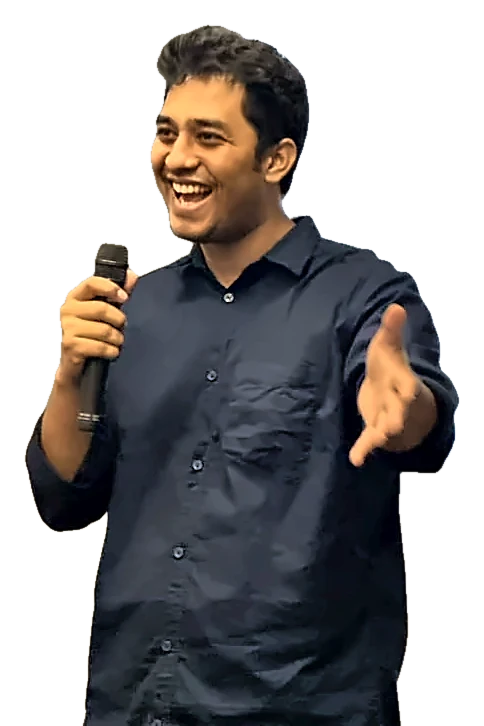
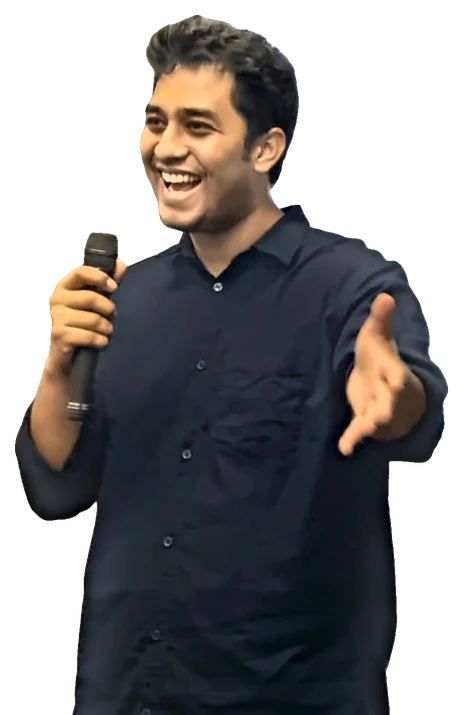
Retouched photo, orbiting blobs, responsive fixes, socials, new email
- Photo: LapSRN 2x upscale, face relight (shadow lift, soft key light,
  cast correction), shirt wrinkle smoothing that keeps buttons and
  seams, detail-aware sharpening, re-matted at 2x
- Hero: morphing gradient blob with a soft secondary glow and two
  orbiting blob-shaped rings that pass behind the head and in front of
  the body; pointer depth now uses `translate` so it composes with the
  entrance animations
- Responsive: short name and tighter header under 420px, full nav only
  above 1000px, 44px footer tap targets; audited 320-1920px with no
  overflow or clipping
- Contact email is now shahriar@sarc.edu.bd; LinkedIn, Facebook,
  Instagram, X and Kaggle icons in the contact band and footer
- Expected graduation 2029

Claude-Session: https://claude.ai/code/session_01PLjxs9tdQ5vjxFupRfSiNv

Changed region(s): [[0.0302, 0.0, 0.9676, 1.0], [0.6652, 0.9538, 0.6955, 0.9846], [0.2419, 0.9846, 0.2721, 1.0]]

diff --git a/index.html b/index.html
@@ -15,6 +15,8 @@
 <link rel="canonical" href="https://msaevan.com/">
 <link rel="me" href="https://www.linkedin.com/in/msaevan101">
 <link rel="me" href="https://x.com/msaevan101">
+<link rel="me" href="https://www.facebook.com/shahriarazadevan">
+<link rel="me" href="https://www.instagram.com/msaevan101">
 <link rel="icon" href="favicon.svg" type="image/svg+xml">
 <link rel="apple-touch-icon" href="apple-touch-icon.png">
 <link rel="preload" href="fonts/google-sans-flex.woff2" as="font" type="font/woff2" crossorigin>
@@ -36,14 +38,14 @@
 <script type="application/ld+json">
 {"@context":"https://schema.org","@graph":[
 {"@type":"ProfilePage","@id":"https://msaevan.com/#page","url":"https://msaevan.com/","name":"Shahriar Azad Evan – Community & Program Manager","inLanguage":"en","dateModified":"2026-11-12","mainEntity":{"@id":"https://msaevan.com/#person"}},
-{"@type":"Person","@id":"https://msaevan.com/#person","name":"Shahriar Azad Evan","alternateName":["Md Shahriar Azad Evan","MSA Evan"],"url":"https://msaevan.com/","image":["https://msaevan.com/portrait.jpg","https://msaevan.com/speaker@2x.webp"],"email":"mailto:shahriarazadevan@gmail.com","jobTitle":"Community & Program Manager","description":"Community and program manager in Dhaka, Bangladesh. Organizer of Machine Learning Bangladesh and founder of Cedar Initiative.","address":{"@type":"PostalAddress","addressLocality":"Dhaka","addressCountry":"BD"},
+{"@type":"Person","@id":"https://msaevan.com/#person","name":"Shahriar Azad Evan","alternateName":["Md Shahriar Azad Evan","MSA Evan"],"url":"https://msaevan.com/","image":["https://msaevan.com/portrait.jpg","https://msaevan.com/speaker@2x.webp"],"email":"mailto:shahriar@sarc.edu.bd","jobTitle":"Community & Program Manager","description":"Community and program manager in Dhaka, Bangladesh. Organizer of Machine Learning Bangladesh and founder of Cedar Initiative.","address":{"@type":"PostalAddress","addressLocality":"Dhaka","addressCountry":"BD"},
 "affiliation":[{"@type":"Organization","name":"Machine Learning Bangladesh","url":"https://mlbangladesh.org/"},{"@type":"Organization","name":"Cedar Initiative","url":"https://cedar-initiative.org/"},{"@type":"Organization","name":"CMX"}],
 "memberOf":{"@type":"Organization","name":"Google AI Community Network"},
 "alumniOf":[{"@type":"CollegeOrUniversity","name":"Kirkwood Community College"},{"@type":"CollegeOrUniversity","name":"United International University"}],
 "award":["U.S. Department of State Community College Initiative Scholar (2024–25)","Platinum Award, Kirkwood Community College Eagle Leadership Program (2025)","3rd Place, CICA AI Art Competition (2025)","Dean's List, Kirkwood Community College (2025)","Community Champion, Google Crowdsource (2021)"],
 "knowsAbout":["Community management","Program management","Event management","Hackathons","Kaggle competitions","Developer relations","Partnerships and sponsorships"],
 "knowsLanguage":["Bengali","English","Hindi"],
-"sameAs":["https://www.linkedin.com/in/msaevan101","https://x.com/msaevan101","https://www.kaggle.com/msaevan","https://www.facebook.com/shahriarazadevan"],
+"sameAs":["https://www.linkedin.com/in/msaevan101","https://www.facebook.com/shahriarazadevan","https://www.instagram.com/msaevan101","https://x.com/msaevan101","https://www.kaggle.com/msaevan"],
 "subjectOf":[{"@type":"NewsArticle","url":"https://www.dhakatribune.com/bangladesh/foreign-affairs/422008/a-new-chapter-in-bangladesh%E2%80%93russia-digital"},{"@type":"WebPage","url":"https://mlbangladesh.org/team"},{"@type":"NewsArticle","url":"https://www.tbsnews.net/bangladesh/bangladeshi-youth-wins-top-spot-cica-artificial-intelligence-art-competition-1284891"}]}
 ]}
 </script>
@@ -101,16 +103,21 @@ img{display:block;max-width:100%}
 .iconbtn .sun{display:none}
 [aria-pressed="true"] .sun{display:block}[aria-pressed="true"] .moon{display:none}
 .menu{display:none}
+.gn .name .short{display:none}
+.gn .name{min-width:0}
+@media (max-width:420px){.gn .wide{gap:10px}.gn .name .full{display:none}.gn .name .short{display:inline}.tools{gap:2px}.pill{padding:0 14px}}
+@media (max-width:900px){footer nav{gap:0 4px;margin-left:-10px}footer nav a{display:inline-flex;align-items:center;justify-content:center;min-height:44px;min-width:44px;padding:0 10px}}
+@media (max-width:760px){footer .wide{flex-direction:column}}
 .pill{display:inline-flex;align-items:center;height:40px;padding:0 18px;border-radius:999px;background:var(--btn);color:var(--btn-ink);font-size:14px;font-weight:500;white-space:nowrap}
 .pill:hover{text-decoration:none;filter:brightness(1.06)}
-@media (max-width:880px){
+@media (max-width:1000px){
   .gn nav{display:none}.tools{margin-left:auto}.js .menu{display:grid}
   .gn.open nav{display:flex;position:absolute;top:60px;left:0;right:0;flex-direction:column;gap:0;margin:0;padding:6px var(--gut) 14px;background:var(--bg);border-bottom:1px solid var(--line)}
   .gn.open nav a{font-size:17px;line-height:44px;padding:0 4px;color:var(--ink)}
 }
 
 /* Buttons */
-.btn{transition:transform .25s cubic-bezier(.2,.7,.2,1),background .2s,filter .2s,box-shadow .2s;display:inline-flex;align-items:center;justify-content:center;gap:8px;min-height:48px;padding:0 24px;border-radius:999px;font-size:16px;font-weight:500;white-space:nowrap;transition:background .2s,filter .2s,box-shadow .2s}
+.btn{transition:transform .25s cubic-bezier(.2,.7,.2,1),background .2s,filter .2s,box-shadow .2s;display:inline-flex;align-items:center;justify-content:center;gap:8px;min-height:48px;padding:0 24px;border-radius:999px;font-size:16px;font-weight:500;white-space:nowrap}
 .btn:hover{text-decoration:none}
 .btn.primary{background:var(--btn);color:var(--btn-ink)}
 .btn.primary:hover{filter:brightness(1.06);box-shadow:0 1px 3px rgba(26,115,232,.35)}
@@ -336,7 +343,7 @@ footer a{color:var(--ink-2)}
 
 /* ===== Hero stage: cut-out portrait over a blue disc, layered depth ===== */
 .stage{position:relative;aspect-ratio:4/5;max-width:440px;margin-left:auto;isolation:isolate;--px:0;--py:0}
-.stage>*{will-change:transform}
+.stage>*{will-change:transform,translate}
 .disc{position:absolute;left:0;right:0;bottom:0;aspect-ratio:1;border-radius:50%;z-index:0;
   background:repeating-radial-gradient(circle at 50% 50%,rgba(255,255,255,0) 0 22px,rgba(255,255,255,.12) 22px 23px),var(--grad-tile);
   box-shadow:0 40px 80px -30px rgba(11,87,208,.55),inset 0 -30px 60px rgba(4,40,110,.35);
@@ -367,6 +374,51 @@ footer a{color:var(--ink-2)}
 }
 @media print{.disc,.chip,.hero::after{display:none}}
 
+/* ===== Blobs + orbiting blob lines around the portrait ===== */
+.stage .disc{display:none}
+.blob{position:absolute;left:4%;right:4%;bottom:0;aspect-ratio:1;z-index:0;border-radius:46% 54% 58% 42% / 44% 46% 54% 56%}
+.b1{background:repeating-radial-gradient(circle at 50% 55%,rgba(255,255,255,0) 0 22px,rgba(255,255,255,.11) 22px 23px),var(--grad-tile);
+  box-shadow:0 40px 80px -30px rgba(11,87,208,.55),inset 0 -30px 60px rgba(4,40,110,.35)}
+.b2{left:-6%;right:14%;bottom:12%;background:radial-gradient(circle at 35% 35%,#aecbfa,#4c8df6 60%,transparent 72%);opacity:.55;filter:blur(18px)}
+@media (prefers-color-scheme:dark){:root:not([data-theme="light"]) .b2{opacity:.35}}
+:root[data-theme="dark"] .b2{opacity:.35}
+.rings{position:absolute;left:-14%;right:-14%;top:-2%;width:128%;height:auto;aspect-ratio:1;overflow:visible;pointer-events:none}
+.rings path{fill:none;stroke-width:2.2;vector-effect:non-scaling-stroke;stroke-linecap:round}
+.rings .dots{stroke:color-mix(in srgb,var(--blue) 70%,transparent);stroke-width:2.6;stroke-dasharray:.1 2.2}
+.rings g{transform-origin:0 0;transform-box:view-box}
+.rings.back{z-index:0}
+.rings.front{z-index:2;clip-path:inset(56% 0 0 0)}
+.speaker{z-index:1}
+.chip{z-index:3}
+@media (max-width:820px){.rings{left:-10%;right:-10%;width:120%}}
+@media (prefers-reduced-motion:no-preference){
+  .b1{animation:discIn 1.1s cubic-bezier(.16,1,.3,1) both .1s,morph 16s ease-in-out infinite alternate 1.2s,spin 48s linear infinite}
+  .b2{animation:morph 12s ease-in-out infinite alternate-reverse,drift2 18s ease-in-out infinite alternate}
+  .rings g.o1{animation:orbit 26s linear infinite}
+  .rings g.o2{animation:orbit 38s linear infinite reverse}
+  .rings .dots{animation:flow 6s linear infinite}
+  .rings{animation:fade 1.2s ease both .5s}
+  @keyframes morph{0%{border-radius:46% 54% 58% 42% / 44% 46% 54% 56%}33%{border-radius:58% 42% 45% 55% / 52% 58% 42% 48%}66%{border-radius:40% 60% 52% 48% / 58% 42% 58% 42%}100%{border-radius:52% 48% 40% 60% / 46% 54% 46% 54%}}
+  @keyframes spin{to{rotate:360deg}}
+  @keyframes drift2{to{translate:16px -14px;scale:1.08}}
+  @keyframes orbit{to{transform:rotate(360deg)}}
+  @keyframes flow{to{stroke-dashoffset:-23}}
+}
+@media print{.blob,.rings{display:none}}
+
+/* social icons */
+.social{display:flex;flex-wrap:wrap;gap:10px}
+.social a{display:grid;place-items:center;width:44px;height:44px;border-radius:50%;transition:background .2s,transform .25s cubic-bezier(.2,.7,.2,1),color .2s}
+.social a:hover{text-decoration:none;transform:translateY(-2px)}
+.social svg{width:20px;height:20px}
+.social.on-blue{margin-top:22px}
+.social.on-blue a{color:#fff;box-shadow:inset 0 0 0 1px rgba(255,255,255,.4)}
+.social.on-blue a:hover{background:#fff;color:#0b57d0}
+.social.foot{gap:4px}
+.social.foot a{color:var(--ink-3)}
+.social.foot a:hover{color:var(--link);background:var(--tile)}
+footer .wide{align-items:center}
+
 /* Motion: hero reveal and count-ups */
 @media (prefers-reduced-motion:no-preference){
   .hero .line{animation:rise 1s cubic-bezier(.16,1,.3,1) both;animation-delay:var(--d,0ms)}
@@ -392,7 +444,7 @@ footer a{color:var(--ink-2)}
 
 <header class="gn" id="top">
   <div class="wide">
-    <a class="name" href="#main">Shahriar Azad Evan</a>
+    <a class="name" href="#main" aria-label="Shahriar Azad Evan, home"><span class="full">Shahriar Azad Evan</span><span class="short" aria-hidden="true">S. A. Evan</span></a>
     <nav id="gnav" aria-label="Primary">
       <a href="#work">Work</a>
       <a href="#journey">Journey</a>
@@ -421,15 +473,25 @@ footer a{color:var(--ink-2)}
       <h1><span class="mask"><span class="line name p-name">Shahriar Azad Evan</span></span><span class="mask"><span class="line accent" style="--d:140ms">I run tech programs for students across Bangladesh.</span></span></h1>
       <p class="sub fade" style="--d:320ms">I organize Machine Learning Bangladesh, a volunteer AI community of 7,000+ members. In 2026 we ran 11 hackathons in five cities, free to attend, with support from MLH, Google for Developers and the Gemma team.</p>
       <div class="ctas fade" style="--d:420ms">
-        <a class="btn primary u-email" href="mailto:shahriarazadevan@gmail.com">Get in touch</a>
+        <a class="btn primary u-email" href="mailto:shahriar@sarc.edu.bd">Get in touch</a>
         <a class="btn outline" href="resume.pdf" download>Download résumé</a>
       </div>
     </div>
     <div class="visual">
       <div class="stage" id="stage">
-        <div class="disc" data-depth="8" aria-hidden="true"></div>
-        <svg class="net" data-depth="16" viewBox="0 0 400 400" aria-hidden="true" focusable="false"><path class="e" pathLength="100" style="--i:0" d="M137 74L45 53"/><path class="e" pathLength="100" style="--i:1" d="M137 74L120 170"/><path class="e" pathLength="100" style="--i:2" d="M254 46L213 152"/><path class="e" pathLength="100" style="--i:3" d="M254 46L371 37"/><path class="e" pathLength="100" style="--i:4" d="M254 46L329 124"/><path class="e" pathLength="100" style="--i:5" d="M213 152L120 170"/><path class="e" pathLength="100" style="--i:6" d="M213 152L206 242"/><path class="e" pathLength="100" style="--i:7" d="M41 203L42 273"/><path class="e" pathLength="100" style="--i:8" d="M41 203L120 170"/><path class="e" pathLength="100" style="--i:9" d="M41 203L29 335"/><path class="e" pathLength="100" style="--i:10" d="M41 203L30 121"/><path class="e" pathLength="100" style="--i:11" d="M45 53L30 121"/><path class="e" pathLength="100" style="--i:12" d="M173 318L246 361"/><path class="e" pathLength="100" style="--i:13" d="M173 318L206 242"/><path class="e" pathLength="100" style="--i:14" d="M246 361L322 360"/><path class="e" pathLength="100" style="--i:15" d="M371 37L329 124"/><path class="e" pathLength="100" style="--i:16" d="M329 124L364 181"/><path class="e" pathLength="100" style="--i:17" d="M133 231L120 170"/><path class="e" pathLength="100" style="--i:18" d="M133 231L206 242"/><path class="e" pathLength="100" style="--i:19" d="M306 272L322 360"/><path class="e" pathLength="100" style="--i:20" d="M306 272L206 242"/><path class="e" pathLength="100" style="--i:21" d="M306 272L364 181"/><path class="e" pathLength="100" style="--i:22" d="M42 273L29 335"/><path class="p" pathLength="100" style="--i:0" d="M137 74L120 170"/><path class="p" pathLength="100" style="--i:1" d="M213 152L120 170"/><path class="p" pathLength="100" style="--i:2" d="M41 203L29 335"/><path class="p" pathLength="100" style="--i:3" d="M246 361L322 360"/><path class="p" pathLength="100" style="--i:4" d="M306 272L322 360"/><circle class="n big" style="--i:0" cx="137" cy="74" r="6"/><circle class="n" style="--i:1" cx="254" cy="46" r="3.5"/><circle class="n" style="--i:2" cx="213" cy="152" r="3.5"/><circle class="n" style="--i:3" cx="41" cy="203" r="3.5"/><circle class="n" style="--i:4" cx="45" cy="53" r="3.5"/><circle class="n big" style="--i:5" cx="173" cy="318" r="6"/><circle class="n" style="--i:6" cx="246" cy="361" r="3.5"/><circle class="n" style="--i:7" cx="371" cy="37" r="3.5"/><circle class="n" style="--i:8" cx="329" cy="124" r="3.5"/><circle class="n" style="--i:9" cx="133" cy="231" r="3.5"/><circle class="n big" style="--i:10" cx="306" cy="272" r="6"/><circle class="n" style="--i:11" cx="322" cy="360" r="3.5"/><circle class="n" style="--i:12" cx="42" cy="273" r="3.5"/><circle class="n" style="--i:13" cx="120" cy="170" r="3.5"/><circle class="n" style="--i:14" cx="206" cy="242" r="3.5"/><circle class="n big" style="--i:15" cx="29" cy="335" r="6"/><circle class="n" style="--i:16" cx="30" cy="121" r="3.5"/><circle class="n" style="--i:17" cx="364" cy="181" r="3.5"/></svg>
-        <img class="speaker u-photo" data-depth="-5" src="speaker.webp" srcset="speaker.webp 484w, speaker@2x.webp 968w" sizes="(max-width:820px) 62vw, 420px" width="484" height="726" alt="Shahriar Azad Evan speaking at Hacktoberfest Hack Day in Dhaka" fetchpriority="high">
+        <div class="blob b2" data-depth="18" aria-hidden="true"></div>
+        <div class="blob b1" data-depth="8" aria-hidden="true"></div>
+        <svg class="rings back" viewBox="-200 -200 400 400" aria-hidden="true" focusable="false" data-depth="12">
+          <defs><linearGradient id="rg-back" x1="0" y1="0" x2="1" y2="1"><stop offset="0" stop-color="#8ab4f8"/><stop offset=".5" stop-color="#1a73e8"/><stop offset="1" stop-color="#0b57d0"/></linearGradient></defs>
+          <g class="o1"><path pathLength="100" d="M169.5 0.0C170.9 44.4 145.1 110.4 110.4 138.5C75.7 166.5 6.8 178.6 -38.5 168.5C-83.7 158.3 -140.4 118.5 -160.9 77.5C-181.4 36.4 -182.0 -37.9 -161.4 -77.7C-140.7 -117.5 -80.7 -152.7 -36.8 -161.2C7.2 -169.6 67.9 -155.1 102.3 -128.2C136.6 -101.4 168.2 -44.4 169.5 0.0Z" stroke="url(#rg-back)"/></g>
+          <g class="o2"><path class="dots" pathLength="100" d="M158.5 0.0C158.4 46.9 121.8 115.2 81.0 140.2C40.1 165.3 -46.8 173.7 -86.8 150.3C-126.8 127.0 -160.0 48.2 -158.9 0.0C-157.8 -48.2 -120.2 -115.3 -80.1 -138.8C-40.1 -162.3 41.6 -164.1 81.4 -141.0C121.2 -117.9 158.5 -46.9 158.5 0.0Z"/></g>
+        </svg>
+        <img class="speaker u-photo" data-depth="-5" src="speaker.webp" srcset="speaker.webp 463w, speaker@2x.webp 927w" sizes="(max-width:820px) 62vw, 420px" width="463" height="715" alt="Shahriar Azad Evan speaking at Hacktoberfest Hack Day in Dhaka" fetchpriority="high">
+        <svg class="rings front" viewBox="-200 -200 400 400" aria-hidden="true" focusable="false" data-depth="12">
+          <defs><linearGradient id="rg-front" x1="0" y1="0" x2="1" y2="1"><stop offset="0" stop-color="#8ab4f8"/><stop offset=".5" stop-color="#1a73e8"/><stop offset="1" stop-color="#0b57d0"/></linearGradient></defs>
+          <g class="o1"><path pathLength="100" d="M169.5 0.0C170.9 44.4 145.1 110.4 110.4 138.5C75.7 166.5 6.8 178.6 -38.5 168.5C-83.7 158.3 -140.4 118.5 -160.9 77.5C-181.4 36.4 -182.0 -37.9 -161.4 -77.7C-140.7 -117.5 -80.7 -152.7 -36.8 -161.2C7.2 -169.6 67.9 -155.1 102.3 -128.2C136.6 -101.4 168.2 -44.4 169.5 0.0Z" stroke="url(#rg-front)"/></g>
+          <g class="o2"><path class="dots" pathLength="100" d="M158.5 0.0C158.4 46.9 121.8 115.2 81.0 140.2C40.1 165.3 -46.8 173.7 -86.8 150.3C-126.8 127.0 -160.0 48.2 -158.9 0.0C-157.8 -48.2 -120.2 -115.3 -80.1 -138.8C-40.1 -162.3 41.6 -164.1 81.4 -141.0C121.2 -117.9 158.5 -46.9 158.5 0.0Z"/></g>
+        </svg>
         <p class="chip" data-depth="22"><span class="live" aria-hidden="true"></span>Hacktoberfest Hack Day · Dhaka</p>
       </div>
     </div>
@@ -635,7 +697,7 @@ footer a{color:var(--ink-2)}
       <div>
         <dt>Education</dt>
         <dd><ul>
-          <li><h3>United International University</h3><p>B.Sc. in Computer Science &amp; Engineering, Dhaka</p><p class="when">2023 – 2028 (expected)</p></li>
+          <li><h3>United International University</h3><p>B.Sc. in Computer Science &amp; Engineering, Dhaka</p><p class="when">2023 – 2029 (expected)</p></li>
           <li><h3>Kirkwood Community College</h3><p>Certificate in Project Management, Cedar Rapids, Iowa. Community College Initiative scholar. Dean's List, GPA above 3.33, 75.5 hours of community service.</p><p class="when">Aug 2024 – May 2025</p></li>
           <li><h3>Government Shah Abdur Rouf College</h3><p>Higher Secondary Certificate, Science, Rangpur</p><p class="when">2019 – 2022</p></li>
         </ul></dd>
@@ -655,12 +717,12 @@ footer a{color:var(--ink-2)}
     <h2 id="h-contact">Let's work together.</h2>
     <div class="side">
       <p>Hackathons, developer communities, youth programs, sponsorships or speaking. Email is the fastest way to reach me.</p>
-      <a class="mail" href="mailto:shahriarazadevan@gmail.com">shahriarazadevan@gmail.com</a>
+      <a class="mail" href="mailto:shahriar@sarc.edu.bd">shahriar@sarc.edu.bd</a>
       <div class="ctas">
-        <a class="btn solid" href="resume.html">View résumé</a>
-        <a class="btn" href="https://www.linkedin.com/in/msaevan101" rel="me noopener" target="_blank">LinkedIn</a>
-        <a class="btn" href="https://www.kaggle.com/msaevan" rel="me noopener" target="_blank">Kaggle</a>
+        <a class="btn solid" href="mailto:shahriar@sarc.edu.bd">Email me</a>
+        <a class="btn" href="resume.html">View résumé</a>
       </div>
+      <ul class="social on-blue"><li><a href="https://www.linkedin.com/in/msaevan101" rel="me noopener" target="_blank" aria-label="LinkedIn, opens in new tab"><svg viewBox="0 0 24 24" aria-hidden="true"><path d="M6.94 8.5H3.56V20h3.38V8.5ZM5.25 3a1.97 1.97 0 1 0 0 3.94 1.97 1.97 0 0 0 0-3.94ZM20.44 13.4c0-3.06-1.63-4.48-3.8-4.48a3.3 3.3 0 0 0-2.98 1.64V8.5h-3.38V20h3.38v-6.06c0-1.6.3-3.15 2.29-3.15 1.96 0 1.99 1.83 1.99 3.25V20h3.38v-6.6Z" fill="currentColor"/></svg></a></li><li><a href="https://www.facebook.com/shahriarazadevan" rel="me noopener" target="_blank" aria-label="Facebook, opens in new tab"><svg viewBox="0 0 24 24" aria-hidden="true"><path d="M13.5 21v-7.5h2.53l.38-2.94H13.5V8.69c0-.85.24-1.43 1.46-1.43h1.56V4.63a20.9 20.9 0 0 0-2.27-.12c-2.25 0-3.79 1.37-3.79 3.9v2.15H7.92v2.94h2.54V21h3.04Z" fill="currentColor"/></svg></a></li><li><a href="https://www.instagram.com/msaevan101" rel="me noopener" target="_blank" aria-label="Instagram, opens in new tab"><svg viewBox="0 0 24 24" aria-hidden="true"><rect x="3.5" y="3.5" width="17" height="17" rx="5" fill="none" stroke="currentColor" stroke-width="1.8"/><circle cx="12" cy="12" r="4" fill="none" stroke="currentColor" stroke-width="1.8"/><circle cx="17.3" cy="6.7" r="1.1" fill="currentColor"/></svg></a></li><li><a href="https://x.com/msaevan101" rel="me noopener" target="_blank" aria-label="X, opens in new tab"><svg viewBox="0 0 24 24" aria-hidden="true"><path d="M17.75 3h3.07l-6.7 7.66L22 21h-6.17l-4.83-6.32L5.47 21H2.4l7.17-8.2L2 3h6.33l4.37 5.77L17.75 3Zm-1.08 16.17h1.7L7.42 4.74H5.6l11.07 14.43Z" fill="currentColor"/></svg></a></li><li><a href="https://www.kaggle.com/msaevan" rel="me noopener" target="_blank" aria-label="Kaggle, opens in new tab"><svg viewBox="0 0 24 24" aria-hidden="true"><path d="M17.4 21.1c-.04.13-.17.2-.39.2h-2.6a.6.6 0 0 1-.48-.24l-4.3-5.48-1.2 1.14v4.2c0 .25-.13.38-.38.38H6.04c-.25 0-.38-.13-.38-.38V3.1c0-.25.13-.38.38-.38h2.01c.25 0 .38.13.38.38v10.38l5.15-5.2a.6.6 0 0 1 .46-.22h2.69c.17 0 .27.07.32.21.04.16.03.27-.05.33l-5.45 5.27 5.68 6.95c.1.1.12.2.07.29Z" fill="currentColor"/></svg></a></li></ul>
     </div>
   </div>
 </section>
@@ -668,7 +730,8 @@ footer a{color:var(--ink-2)}
 <footer>
   <div class="wide">
     <span>© 2026 Md Shahriar Azad Evan · Dhaka, Bangladesh</span>
-    <nav aria-label="Footer"><a href="resume.html">Résumé</a><a href="resume.pdf" download>PDF</a><a href="https://www.linkedin.com/in/msaevan101" rel="me noopener" target="_blank">LinkedIn</a><a href="https://x.com/msaevan101" rel="me noopener" target="_blank">X</a><a href="#top">Back to top</a></nav>
+    <nav aria-label="Footer"><a href="resume.html">Résumé</a><a href="resume.pdf" download>PDF</a><a href="#top">Back to top</a></nav>
+    <ul class="social foot"><li><a href="https://www.linkedin.com/in/msaevan101" rel="me noopener" target="_blank" aria-label="LinkedIn, opens in new tab"><svg viewBox="0 0 24 24" aria-hidden="true"><path d="M6.94 8.5H3.56V20h3.38V8.5ZM5.25 3a1.97 1.97 0 1 0 0 3.94 1.97 1.97 0 0 0 0-3.94ZM20.44 13.4c0-3.06-1.63-4.48-3.8-4.48a3.3 3.3 0 0 0-2.98 1.64V8.5h-3.38V20h3.38v-6.06c0-1.6.3-3.15 2.29-3.15 1.96 0 1.99 1.83 1.99 3.25V20h3.38v-6.6Z" fill="currentColor"/></svg></a></li><li><a href="https://www.facebook.com/shahriarazadevan" rel="me noopener" target="_blank" aria-label="Facebook, opens in new tab"><svg viewBox="0 0 24 24" aria-hidden="true"><path d="M13.5 21v-7.5h2.53l.38-2.94H13.5V8.69c0-.85.24-1.43 1.46-1.43h1.56V4.63a20.9 20.9 0 0 0-2.27-.12c-2.25 0-3.79 1.37-3.79 3.9v2.15H7.92v2.94h2.54V21h3.04Z" fill="currentColor"/></svg></a></li><li><a href="https://www.instagram.com/msaevan101" rel="me noopener" target="_blank" aria-label="Instagram, opens in new tab"><svg viewBox="0 0 24 24" aria-hidden="true"><rect x="3.5" y="3.5" width="17" height="17" rx="5" fill="none" stroke="currentColor" stroke-width="1.8"/><circle cx="12" cy="12" r="4" fill="none" stroke="currentColor" stroke-width="1.8"/><circle cx="17.3" cy="6.7" r="1.1" fill="currentColor"/></svg></a></li><li><a href="https://x.com/msaevan101" rel="me noopener" target="_blank" aria-label="X, opens in new tab"><svg viewBox="0 0 24 24" aria-hidden="true"><path d="M17.75 3h3.07l-6.7 7.66L22 21h-6.17l-4.83-6.32L5.47 21H2.4l7.17-8.2L2 3h6.33l4.37 5.77L17.75 3Zm-1.08 16.17h1.7L7.42 4.74H5.6l11.07 14.43Z" fill="currentColor"/></svg></a></li><li><a href="https://www.kaggle.com/msaevan" rel="me noopener" target="_blank" aria-label="Kaggle, opens in new tab"><svg viewBox="0 0 24 24" aria-hidden="true"><path d="M17.4 21.1c-.04.13-.17.2-.39.2h-2.6a.6.6 0 0 1-.48-.24l-4.3-5.48-1.2 1.14v4.2c0 .25-.13.38-.38.38H6.04c-.25 0-.38-.13-.38-.38V3.1c0-.25.13-.38.38-.38h2.01c.25 0 .38.13.38.38v10.38l5.15-5.2a.6.6 0 0 1 .46-.22h2.69c.17 0 .27.07.32.21.04.16.03.27-.05.33l-5.45 5.27 5.68 6.95c.1.1.12.2.07.29Z" fill="currentColor"/></svg></a></li></ul>
   </div>
 </footer>
 
@@ -717,7 +780,7 @@ footer a{color:var(--ink-2)}
   if(!fine||still)return;
   /* hero: layered depth + lit dot grid */
   var hero=document.querySelector('.hero'),layers=document.querySelectorAll('#stage [data-depth]'),raf=0,tx=0,ty=0,cx=0,cy=0;
-  function loop(){cx+=(tx-cx)*.08;cy+=(ty-cy)*.08;layers.forEach(function(l){var d=+l.dataset.depth;var base=l.classList.contains('speaker')?'translateX(-50%) ':'';l.style.transform=base+'translate3d('+(cx*d).toFixed(2)+'px,'+(cy*d).toFixed(2)+'px,0)'});
+  function loop(){cx+=(tx-cx)*.08;cy+=(ty-cy)*.08;layers.forEach(function(l){var d=+l.dataset.depth;l.style.translate=(cx*d).toFixed(2)+'px '+(cy*d).toFixed(2)+'px'});
     if(Math.abs(tx-cx)>.001||Math.abs(ty-cy)>.001)raf=requestAnimationFrame(loop);else raf=0}
   hero.addEventListener('pointermove',function(e){var r=hero.getBoundingClientRect();tx=(e.clientX-r.left)/r.width-.5;ty=(e.clientY-r.top)/r.height-.5;
     hero.style.setProperty('--hx',(e.clientX-r.left)+'px');hero.style.setProperty('--hy',(e.clientY-r.top)+'px');hero.classList.add('lit');if(!raf)raf=requestAnimationFrame(loop)});

diff --git a/resume.html b/resume.html
@@ -77,7 +77,7 @@ h2{font-size:13px;font-weight:700;letter-spacing:.08em;text-transform:uppercase;
 <header>
   <h1>Shahriar Azad Evan</h1>
   <p class="title">Community &amp; Program Manager</p>
-  <p class="contact">Dhaka, Bangladesh | <a href="mailto:shahriarazadevan@gmail.com">shahriarazadevan@gmail.com</a> | <a href="https://msaevan.com">msaevan.com</a> | <a href="https://www.linkedin.com/in/msaevan101">linkedin.com/in/msaevan101</a> | <a href="https://www.kaggle.com/msaevan">kaggle.com/msaevan</a></p>
+  <p class="contact">Dhaka, Bangladesh | <a href="mailto:shahriar@sarc.edu.bd">shahriar@sarc.edu.bd</a> | <a href="https://msaevan.com">msaevan.com</a> | <a href="https://www.linkedin.com/in/msaevan101">linkedin.com/in/msaevan101</a> | <a href="https://www.kaggle.com/msaevan">kaggle.com/msaevan</a> | <a href="https://x.com/msaevan101">x.com/msaevan101</a></p>
 </header>
 
 <section>
@@ -181,7 +181,7 @@ h2{font-size:13px;font-weight:700;letter-spacing:.08em;text-transform:uppercase;
   <h2>Education</h2>
   <div class="job">
     <h3>B.Sc. in Computer Science and Engineering</h3>
-    <p class="meta"><span>United International University, Dhaka, Bangladesh</span><span class="dates">2023 – 2028 (expected)</span></p>
+    <p class="meta"><span>United International University, Dhaka, Bangladesh</span><span class="dates">2023 – 2029 (expected)</span></p>
   </div>
   <div class="job">
     <h3>Certificate in Project Management</h3>
